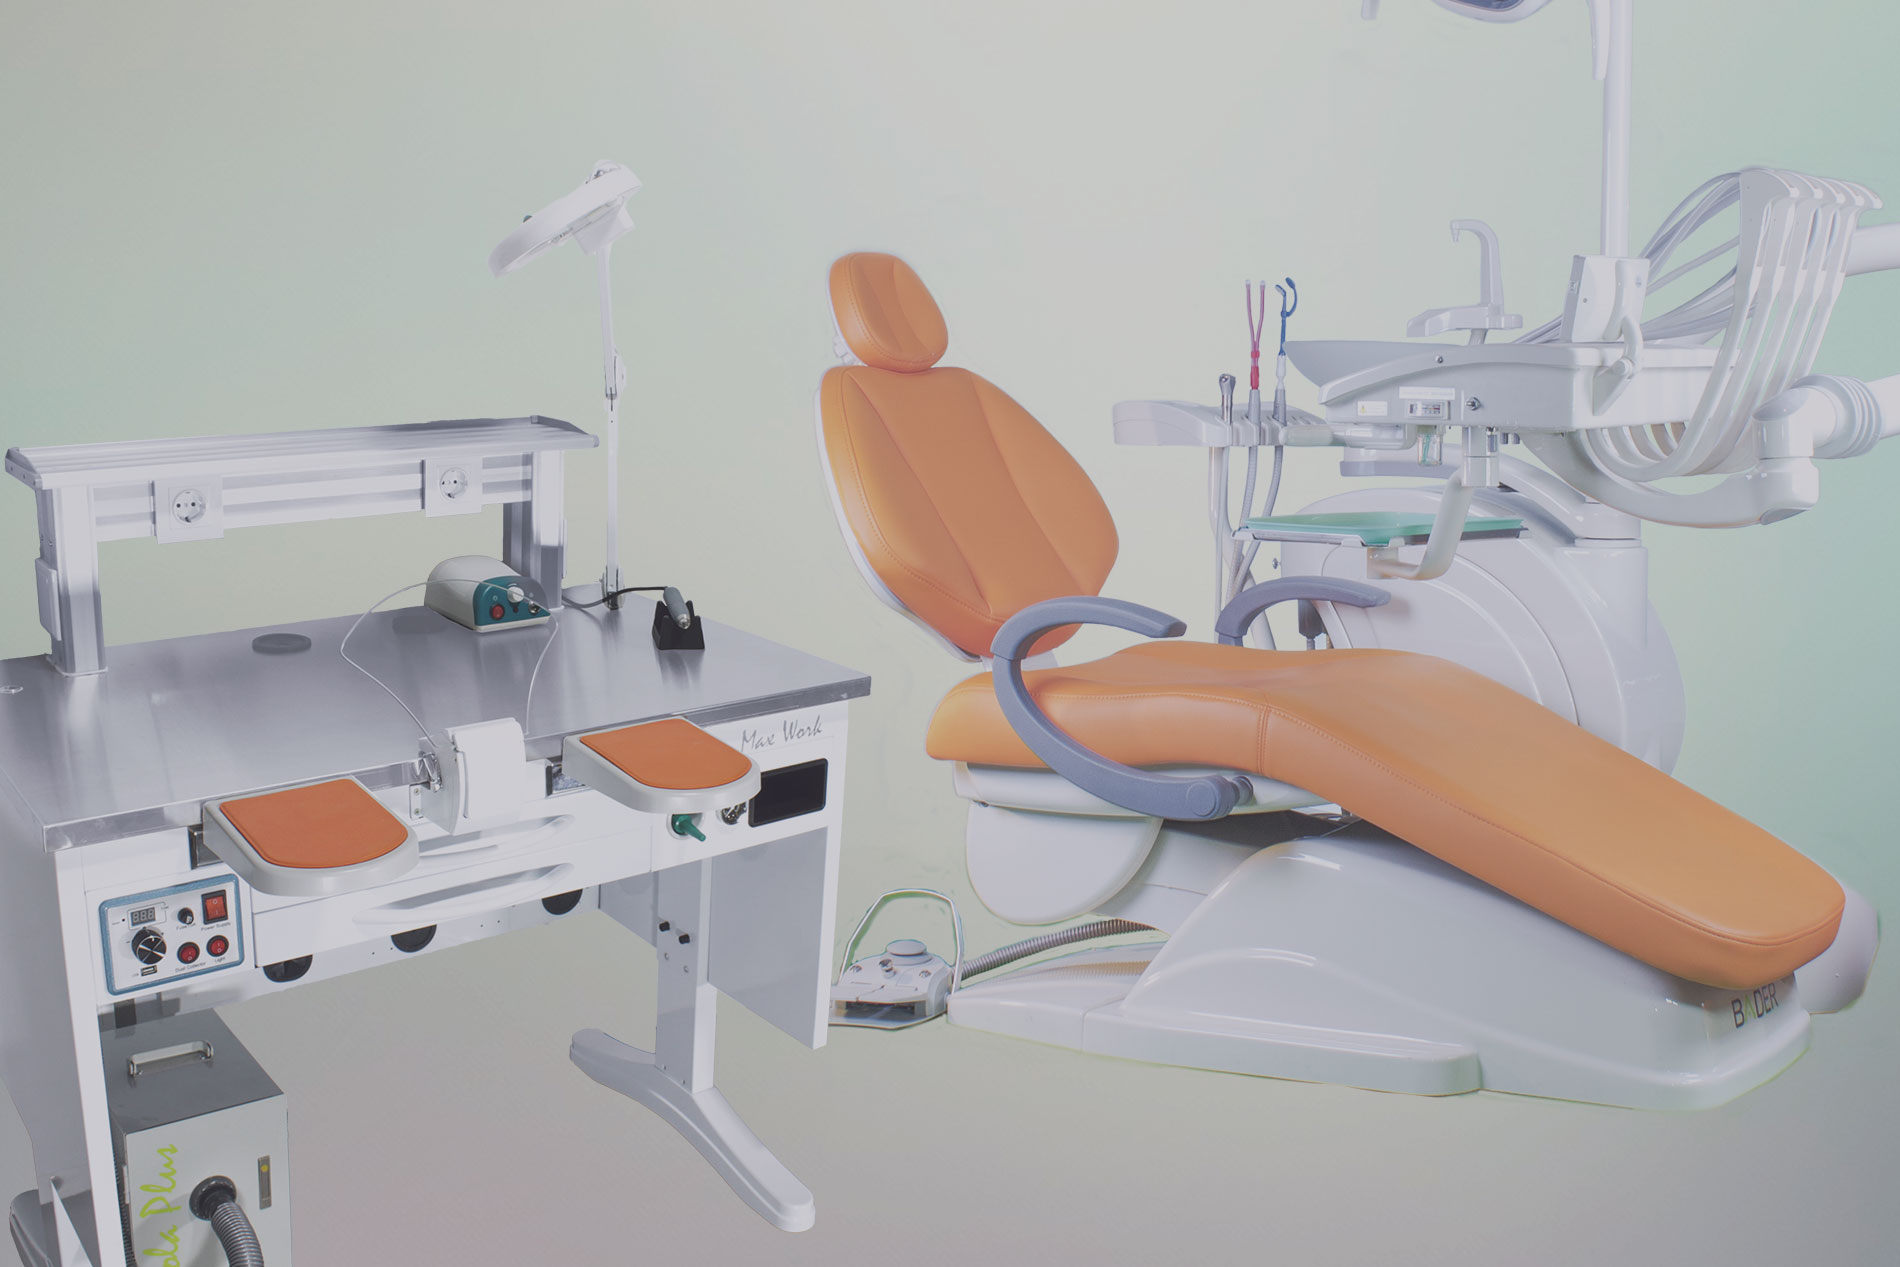
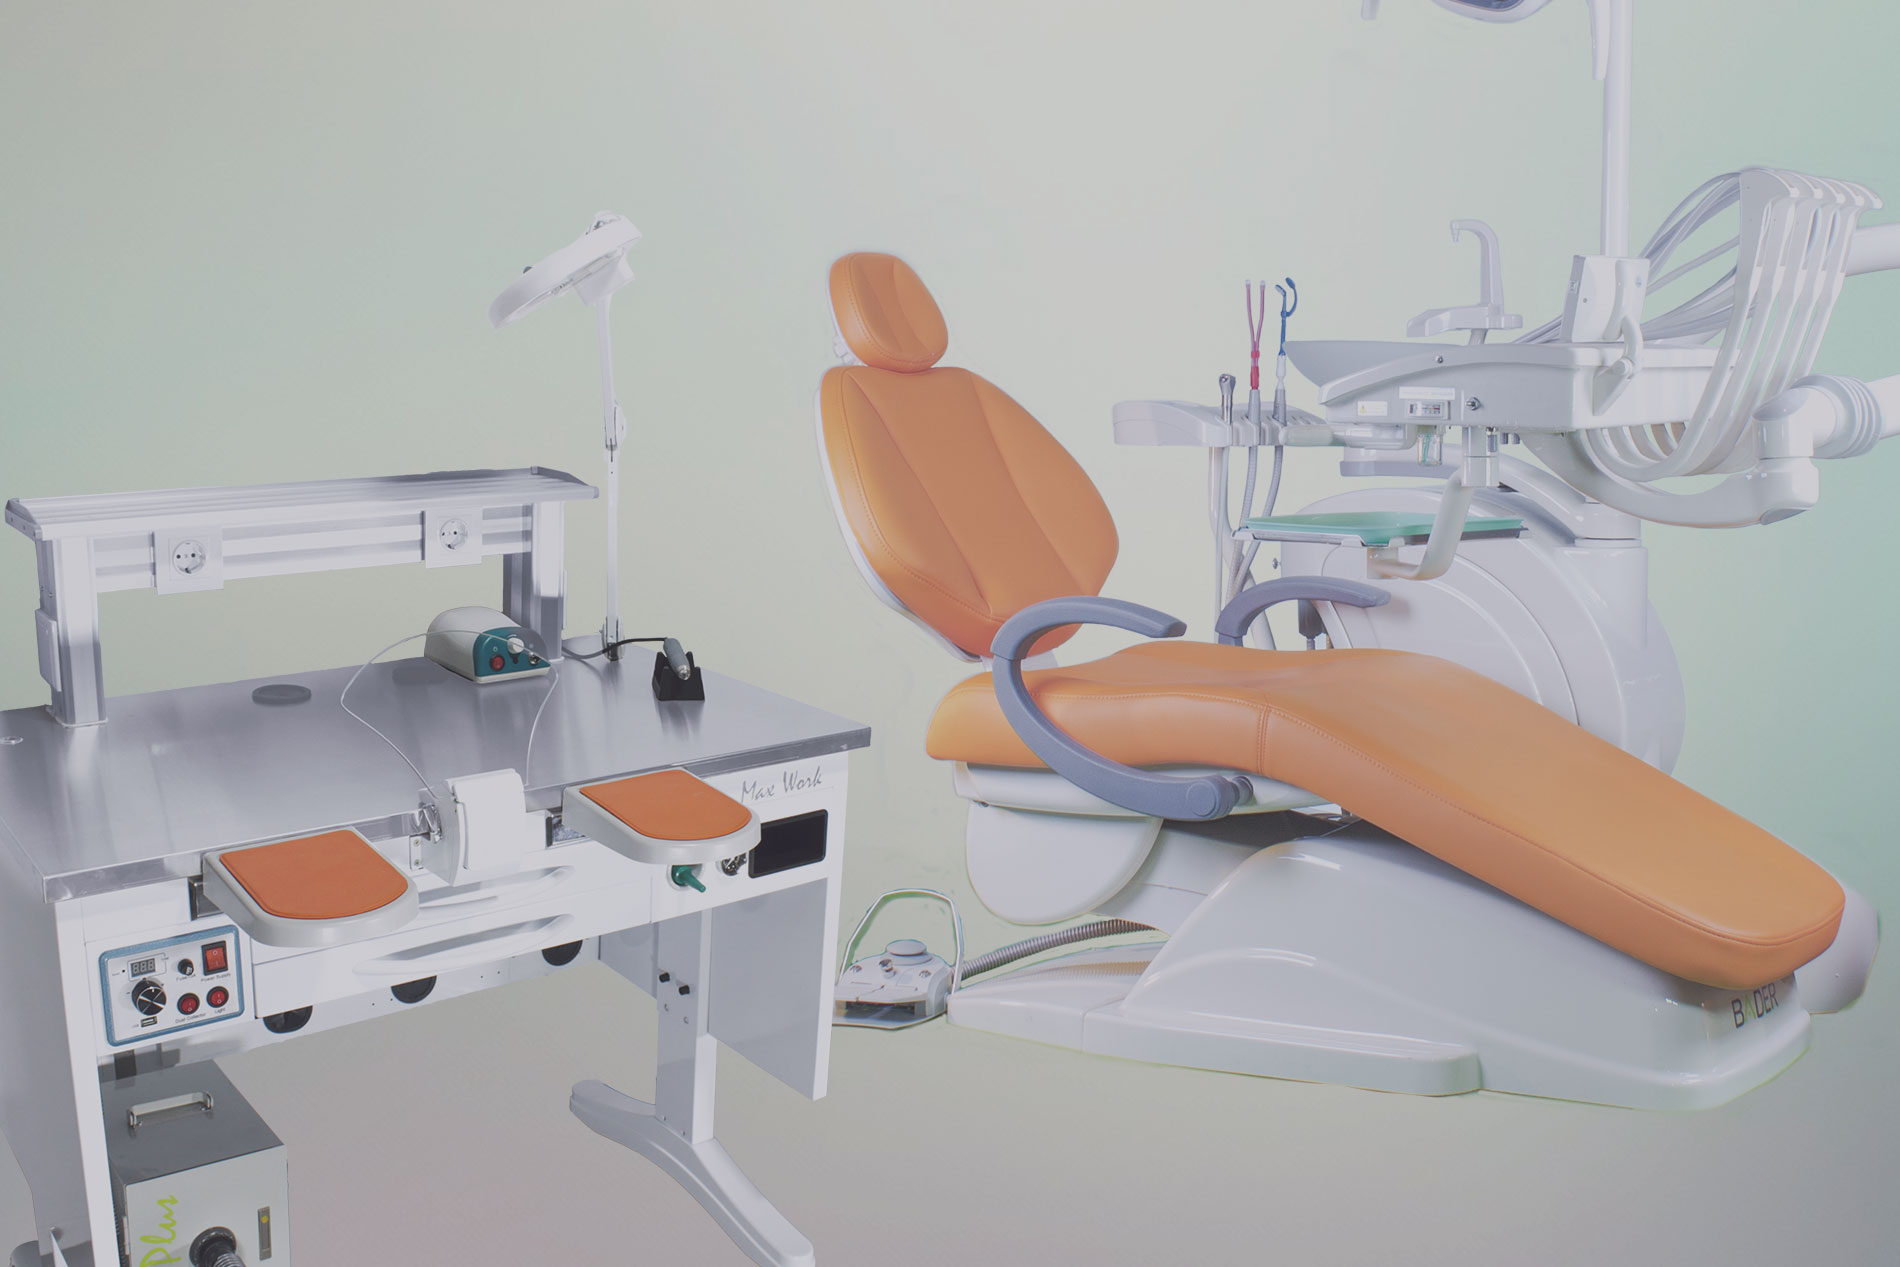
Añadidas las imagenes

diff --git a/index.html b/index.html
@@ -212,7 +212,7 @@
              <div class="row">
                  <div class="col-md-6 portfolio-item">
                      <a href="#">
-                         <img class="img-responsive" src="http://placehold.it/700x400" alt="">
+                         <img class="img-responsive" src="img/productos/flexup.jpg" alt="">
                      </a>
                      <h3>
                          <a href="#">FLEX UP</a>
@@ -221,7 +221,7 @@
                  </div>
                  <div class="col-md-6 portfolio-item">
                      <a href="#">
-                         <img class="img-responsive" src="http://placehold.it/700x400" alt="">
+                         <img class="img-responsive" src="img/productos/trend.jpg" alt="">
                      </a>
                      <h3>
                          <a href="#">TREND</a>
@@ -254,12 +254,12 @@
 
                     <div class="col-md-3 col-sm-6 hero-feature">
                         <div class="thumbnail">
-                            <img src="http://placehold.it/800x500" alt="">
+                            <img src="img/productos/1.jpg" alt="">
                             <div class="caption">
-                                <h3>Feature Label</h3>
+                                <h3>Stool One</h3>
                                 <p>Lorem ipsum dolor sit amet, consectetur adipisicing elit.</p>
                                 <p>
-                                    <a href="#" class="btn btn-primary">Buy Now!</a> <a href="#" class="btn btn-default">More Info</a>
+                                    <a href="#" class="btn btn-primary">Más información</a> <!--<a href="#" class="btn btn-default">More Info</a>-->
                                 </p>
                             </div>
                         </div>
@@ -267,12 +267,12 @@
 
                     <div class="col-md-3 col-sm-6 hero-feature">
                         <div class="thumbnail">
-                            <img src="http://placehold.it/800x500" alt="">
+                            <img src="img/productos/2.jpg" alt="">
                             <div class="caption">
-                                <h3>Feature Label</h3>
+                                <h3>Stool Chair</h3>
                                 <p>Lorem ipsum dolor sit amet, consectetur adipisicing elit.</p>
                                 <p>
-                                    <a href="#" class="btn btn-primary">Buy Now!</a> <a href="#" class="btn btn-default">More Info</a>
+                                    <a href="#" class="btn btn-primary">Más información</a> <!--<a href="#" class="btn btn-default">More Info</a>-->
                                 </p>
                             </div>
                         </div>
@@ -280,12 +280,12 @@
 
                     <div class="col-md-3 col-sm-6 hero-feature">
                         <div class="thumbnail">
-                            <img src="http://placehold.it/800x500" alt="">
+                            <img src="img/productos/3.jpg" alt="">
                             <div class="caption">
-                                <h3>Feature Label</h3>
+                                <h3>Ergo Stool</h3>
                                 <p>Lorem ipsum dolor sit amet, consectetur adipisicing elit.</p>
                                 <p>
-                                    <a href="#" class="btn btn-primary">Buy Now!</a> <a href="#" class="btn btn-default">More Info</a>
+                                    <a href="#" class="btn btn-primary">Más información</a> <!--<a href="#" class="btn btn-default">More Info</a>-->
                                 </p>
                             </div>
                         </div>
@@ -293,12 +293,12 @@
 
                     <div class="col-md-3 col-sm-6 hero-feature">
                         <div class="thumbnail">
-                            <img src="http://placehold.it/800x500" alt="">
+                            <img src="img/productos/4.jpg" alt="">
                             <div class="caption">
-                                <h3>Feature Label</h3>
+                                <h3>King Stool</h3>
                                 <p>Lorem ipsum dolor sit amet, consectetur adipisicing elit.</p>
                                 <p>
-                                    <a href="#" class="btn btn-primary">Buy Now!</a> <a href="#" class="btn btn-default">More Info</a>
+                                    <a href="#" class="btn btn-primary">Más información</a> <!--<a href="#" class="btn btn-default">More Info</a>-->
                                 </p>
                             </div>
                         </div>
@@ -360,7 +360,7 @@
             <div class="row">
                 <div class="col-md-6 portfolio-item">
                     <a href="#">
-                        <img class="img-responsive" src="http://placehold.it/700x400" alt="">
+                        <img class="img-responsive" src="img/productos/maxwork.jpg" alt="">
                     </a>
                     <h3>
                         <a href="#">MAX WORK</a>
@@ -369,7 +369,7 @@
                 </div>
                 <div class="col-md-6 portfolio-item">
                     <a href="#">
-                        <img class="img-responsive" src="http://placehold.it/700x400" alt="">
+                        <img class="img-responsive" src="img/productos/maxworktwin.jpg" alt="">
                     </a>
                     <h3>
                         <a href="#">MAX WORK TWIN</a>
@@ -383,7 +383,7 @@
             <div class="row">
                 <div class="col-md-6 portfolio-item">
                     <a href="#">
-                        <img class="img-responsive" src="http://placehold.it/700x400" alt="">
+                        <img class="img-responsive" src="img/productos/basework.jpg" alt="">
                     </a>
                     <h3>
                         <a href="#">BASE WORK</a>
@@ -392,7 +392,7 @@
                 </div>
                 <div class="col-md-6 portfolio-item">
                     <a href="#">
-                        <img class="img-responsive" src="http://placehold.it/700x400" alt="">
+                        <img class="img-responsive" src="img/productos/baserepasado.jpg" alt="">
                     </a>
                     <h3>
                         <a href="#">BASE REPASADO</a>
@@ -425,12 +425,12 @@
 
               <div class="col-md-4 col-sm-6 hero-feature">
                   <div class="thumbnail">
-                      <img src="http://placehold.it/800x500" alt="">
+                      <img src="img/productos/estanteriapie.jpg" alt="">
                       <div class="caption">
-                          <h3>Feature Label</h3>
+                          <h3>Estantería Pie Porta Gavetas</h3>
                           <p>Lorem ipsum dolor sit amet, consectetur adipisicing elit.</p>
                           <p>
-                              <a href="#" class="btn btn-primary">Buy Now!</a> <a href="#" class="btn btn-default">More Info</a>
+                              <a href="#" class="btn btn-primary">Más información</a> <!--<a href="#" class="btn btn-default">More Info</a>-->
                           </p>
                       </div>
                   </div>
@@ -438,12 +438,12 @@
 
               <div class="col-md-4 col-sm-6 hero-feature">
                   <div class="thumbnail">
-                      <img src="http://placehold.it/800x500" alt="">
+                      <img src="img/productos/cajonera.jpg" alt="">
                       <div class="caption">
-                          <h3>Feature Label</h3>
+                          <h3>Cajonera Unit Work</h3>
                           <p>Lorem ipsum dolor sit amet, consectetur adipisicing elit.</p>
                           <p>
-                              <a href="#" class="btn btn-primary">Buy Now!</a> <a href="#" class="btn btn-default">More Info</a>
+                              <a href="#" class="btn btn-primary">Más información</a> <!--<a href="#" class="btn btn-default">More Info</a>-->
                           </p>
                       </div>
                   </div>
@@ -451,12 +451,12 @@
 
               <div class="col-md-4 col-sm-6 hero-feature">
                   <div class="thumbnail">
-                      <img src="http://placehold.it/800x500" alt="">
+                      <img src="img/productos/flexo.jpg" alt="">
                       <div class="caption">
-                          <h3>Feature Label</h3>
+                          <h3>Flexo Protésico</h3>
                           <p>Lorem ipsum dolor sit amet, consectetur adipisicing elit.</p>
                           <p>
-                              <a href="#" class="btn btn-primary">Buy Now!</a> <a href="#" class="btn btn-default">More Info</a>
+                              <a href="#" class="btn btn-primary">Más información</a> <!--<a href="#" class="btn btn-default">More Info</a>-->
                           </p>
                       </div>
                   </div>
@@ -469,12 +469,12 @@
 
              <div class="col-md-4 col-sm-6 hero-feature">
                  <div class="thumbnail">
-                     <img src="http://placehold.it/800x500" alt="">
+                     <img src="img/productos/gavetas.jpg" alt="">
                      <div class="caption">
-                         <h3>Feature Label</h3>
+                         <h3>Gavetas</h3>
                          <p>Lorem ipsum dolor sit amet, consectetur adipisicing elit.</p>
                          <p>
-                             <a href="#" class="btn btn-primary">Buy Now!</a> <a href="#" class="btn btn-default">More Info</a>
+                             <a href="#" class="btn btn-primary">Más información</a> <!--<a href="#" class="btn btn-default">More Info</a>-->
                          </p>
                      </div>
                  </div>
@@ -482,12 +482,12 @@
 
              <div class="col-md-4 col-sm-6 hero-feature">
                  <div class="thumbnail">
-                     <img src="http://placehold.it/800x500" alt="">
+                     <img src="img/productos/estanteriamaxwork.jpg" alt="">
                      <div class="caption">
-                         <h3>Feature Label</h3>
+                         <h3>Estantería Max Work</h3>
                          <p>Lorem ipsum dolor sit amet, consectetur adipisicing elit.</p>
                          <p>
-                             <a href="#" class="btn btn-primary">Buy Now!</a> <a href="#" class="btn btn-default">More Info</a>
+                             <a href="#" class="btn btn-primary">Más información</a> <!--<a href="#" class="btn btn-default">More Info</a>-->
                          </p>
                      </div>
                  </div>
@@ -495,12 +495,12 @@
 
              <div class="col-md-4 col-sm-6 hero-feature">
                  <div class="thumbnail">
-                     <img src="http://placehold.it/800x500" alt="">
+                     <img src="img/productos/estanteriamaxworktwin.jpg" alt="">
                      <div class="caption">
-                         <h3>Feature Label</h3>
+                         <h3>Estantería Max Work Twin</h3>
                          <p>Lorem ipsum dolor sit amet, consectetur adipisicing elit.</p>
                          <p>
-                             <a href="#" class="btn btn-primary">Buy Now!</a> <a href="#" class="btn btn-default">More Info</a>
+                             <a href="#" class="btn btn-primary">Más información</a> <!--<a href="#" class="btn btn-default">More Info</a>-->
                          </p>
                      </div>
                  </div>
